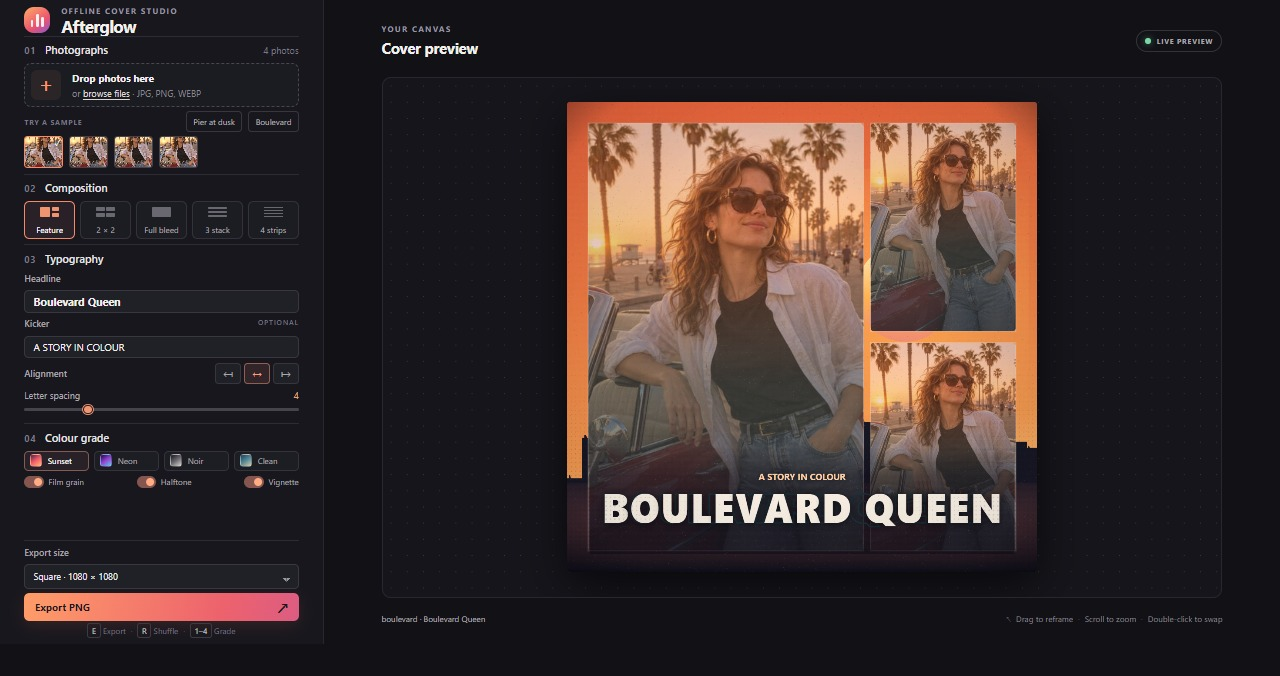
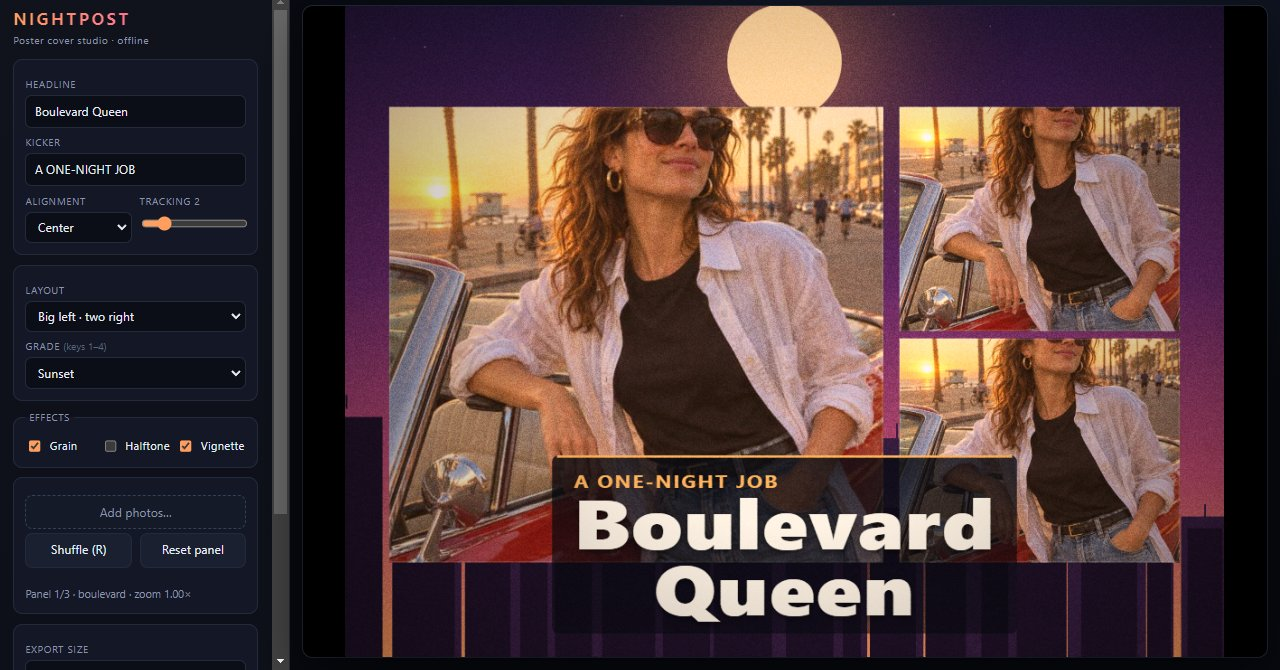
Fix image loading hang and add poster screenshots

diff --git a/app/src/main.js b/app/src/main.js
@@ -50,7 +50,11 @@ function setStatus(msg) {
   statusEl.textContent = msg;
 }
 
-/** Load an image and only resolve after a real decode, so the first draw never races. */
+/**
+ * Load an image and resolve once onload fires. drawImage is valid at that
+ * point; awaiting img.decode() can hang in Chromium (the promise never
+ * settles even though onload fired), so decode is deliberately not awaited.
+ */
 function loadImage(url) {
   const img = new Image();
   const loaded = new Promise((resolve, reject) => {
@@ -58,10 +62,18 @@ function loadImage(url) {
     img.onerror = () => reject(new Error('image failed: ' + url));
   });
   img.decoding = 'async';
+  if (img.complete && img.naturalWidth > 0) {
+    // A url already complete before src is assigned means this Image object
+    // was reused or pre-populated by the caller; a fresh Image() is also
+    // complete but has naturalWidth 0, so the width check keeps it out.
+    return Promise.resolve(img);
+  }
   img.src = url;
-  return loaded
-    .then(() => (img.decode ? img.decode() : undefined))
-    .then(() => img);
+  if (img.complete && img.naturalWidth > 0) {
+    // Already available synchronously (e.g. cache hit); the load is done.
+    return Promise.resolve(img);
+  }
+  return loaded.then(() => img);
 }
 
 /** One built-in sample photo, shared by name; resolves to its library index. */
@@ -290,7 +302,7 @@ async function addFile(file) {
     state.photos.push({ name: (file.name || 'pasted image').replace(/\.[^.]+$/, ''), img, sample: false });
     return true;
   } finally {
-    // The bitmap is already decoded, so the object URL is safe to release now.
+    // The image has fully loaded (onload fired), so the URL is safe to release.
     URL.revokeObjectURL(url);
   }
 }
@@ -552,7 +564,7 @@ const shotApi = {
     gradeSelect.value = name;
   },
   whenImagesReady() {
-    // Every photo entered the library through an awaited decode, so nothing is pending.
+    // Every photo entered the library through loadImage(), so loading is done.
     return Promise.resolve();
   },
   enterCoverMode(size) {
